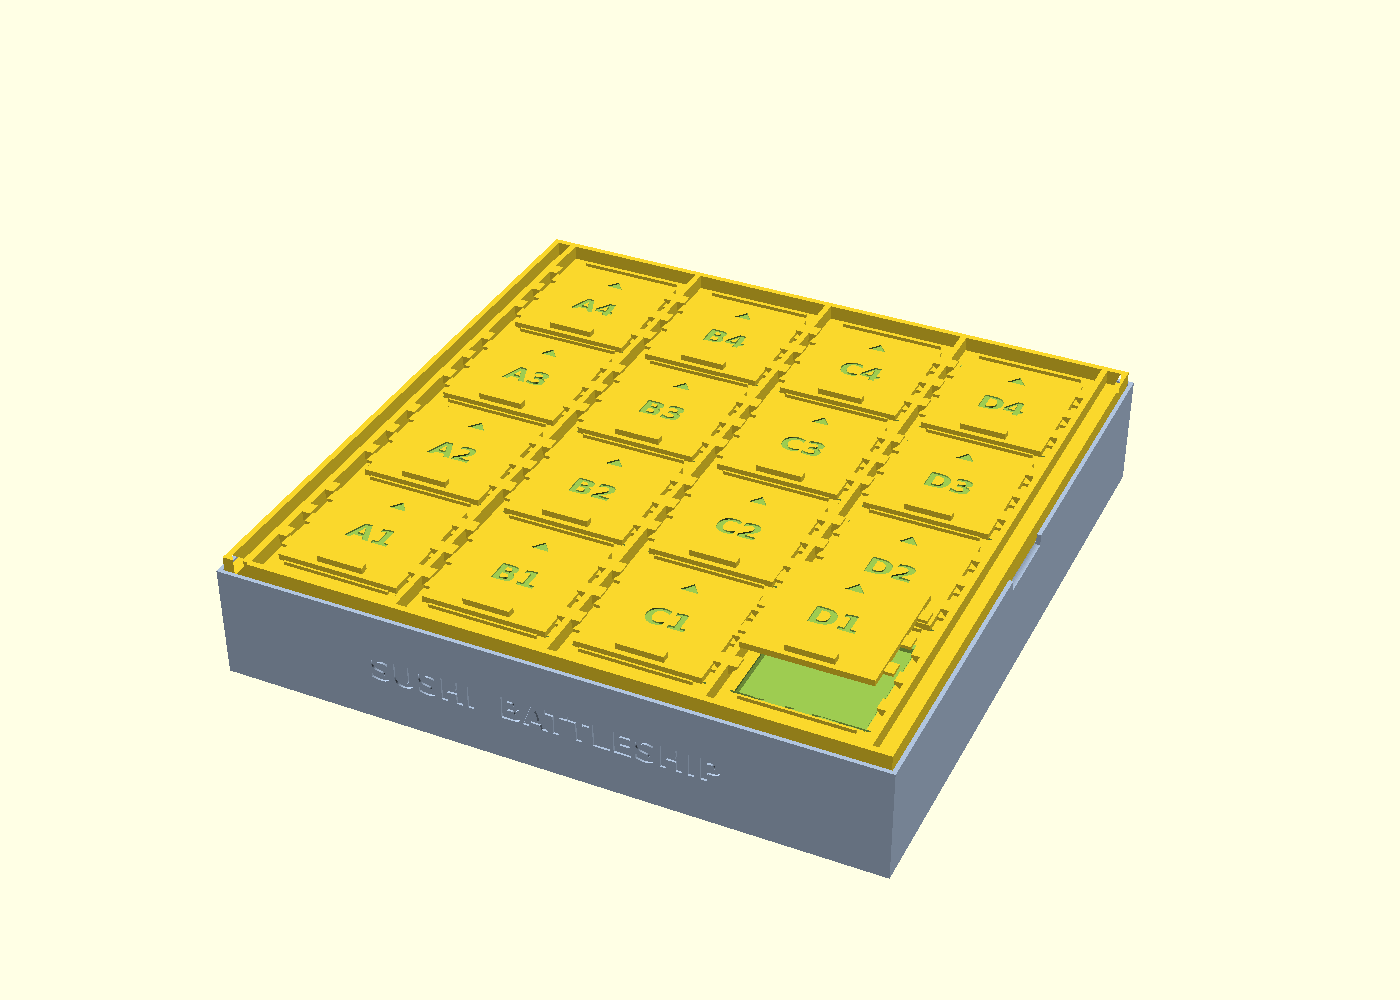
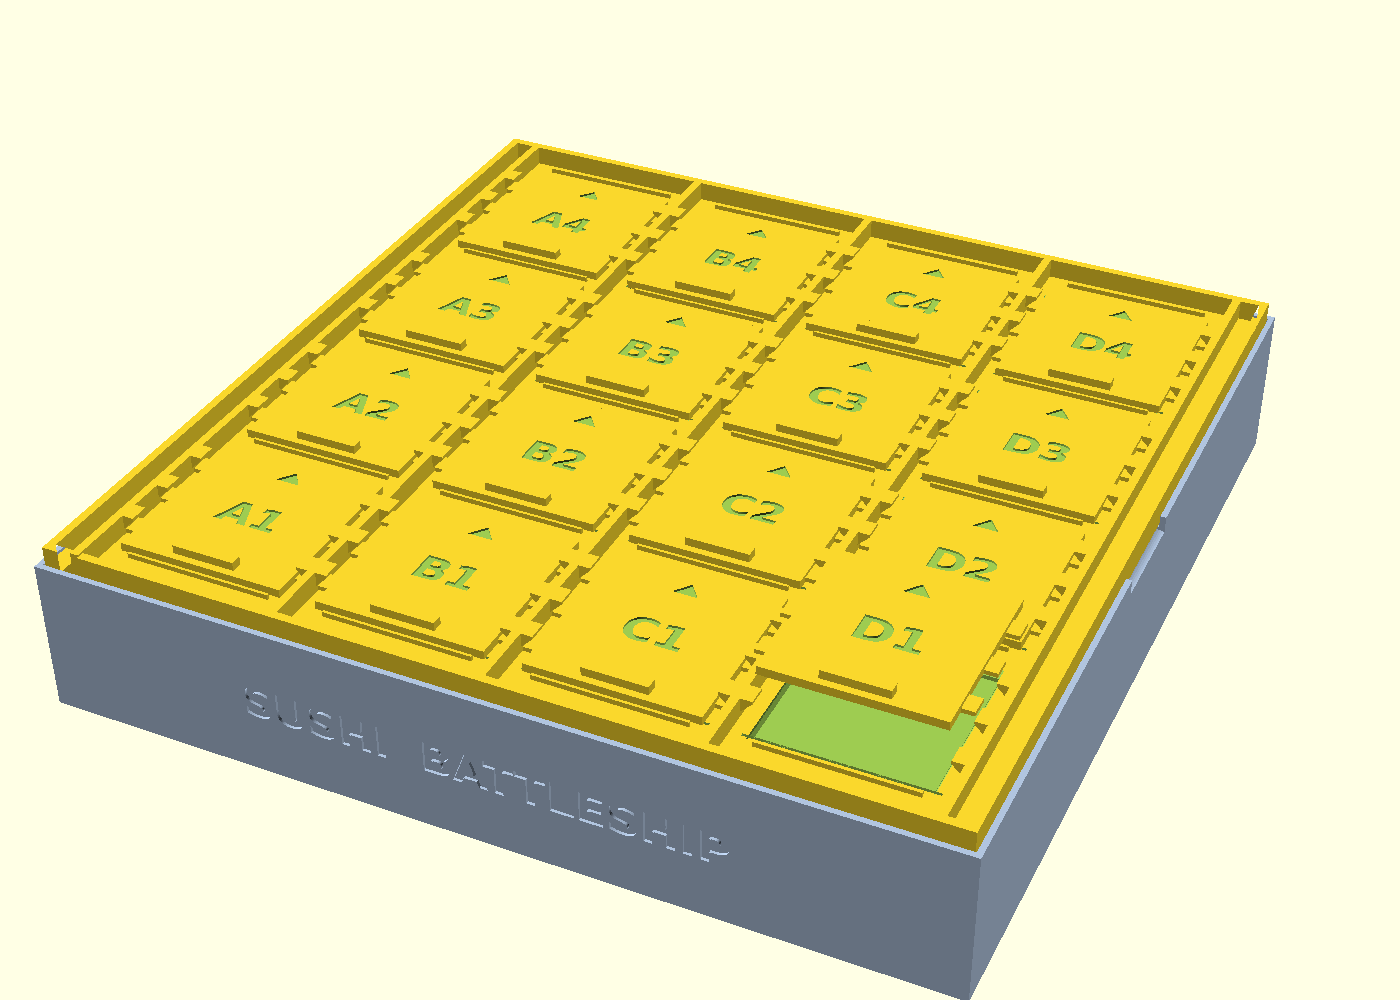
Update design: sushi-battleship - pin assembly preview camera
Replace --autocenter --viewall with an explicit recorded camera on the
assembly shot so all six preview cameras are genuinely fixed across
rounds (Qodo). Assembly re-rendered at the pinned camera as the
baseline for later rounds.

Claude-Session: https://claude.ai/code/session_01HqNeh4GDT41NzkucQjW4Bd

diff --git a/designs/sushi-battleship/previews/CAMERAS.md b/designs/sushi-battleship/previews/CAMERAS.md
@@ -18,11 +18,12 @@ PRE=designs/sushi-battleship/previews
 ```
 
 **assembly.png** — assembled board, shutter D1 slid open and lifted
-(`demo_open`), preview sushi piece visible:
+(`demo_open`), preview sushi piece visible. Explicit camera (no
+auto-framing) so this shot stays aligned across rounds like the rest:
 
 ```bash
 xvfb-run -a openscad -o $PRE/assembly.png --imgsize=1400,1000 \
-  --autocenter --viewall -D 'part="assembled"' -D 'demo_open=true' $SRC
+  --camera=0,0,22,55,0,25,700 -D 'part="assembled"' -D 'demo_open=true' $SRC
 ```
 
 **shutter-closeup.png** — lid only, D1 slid fully open at plate level:
